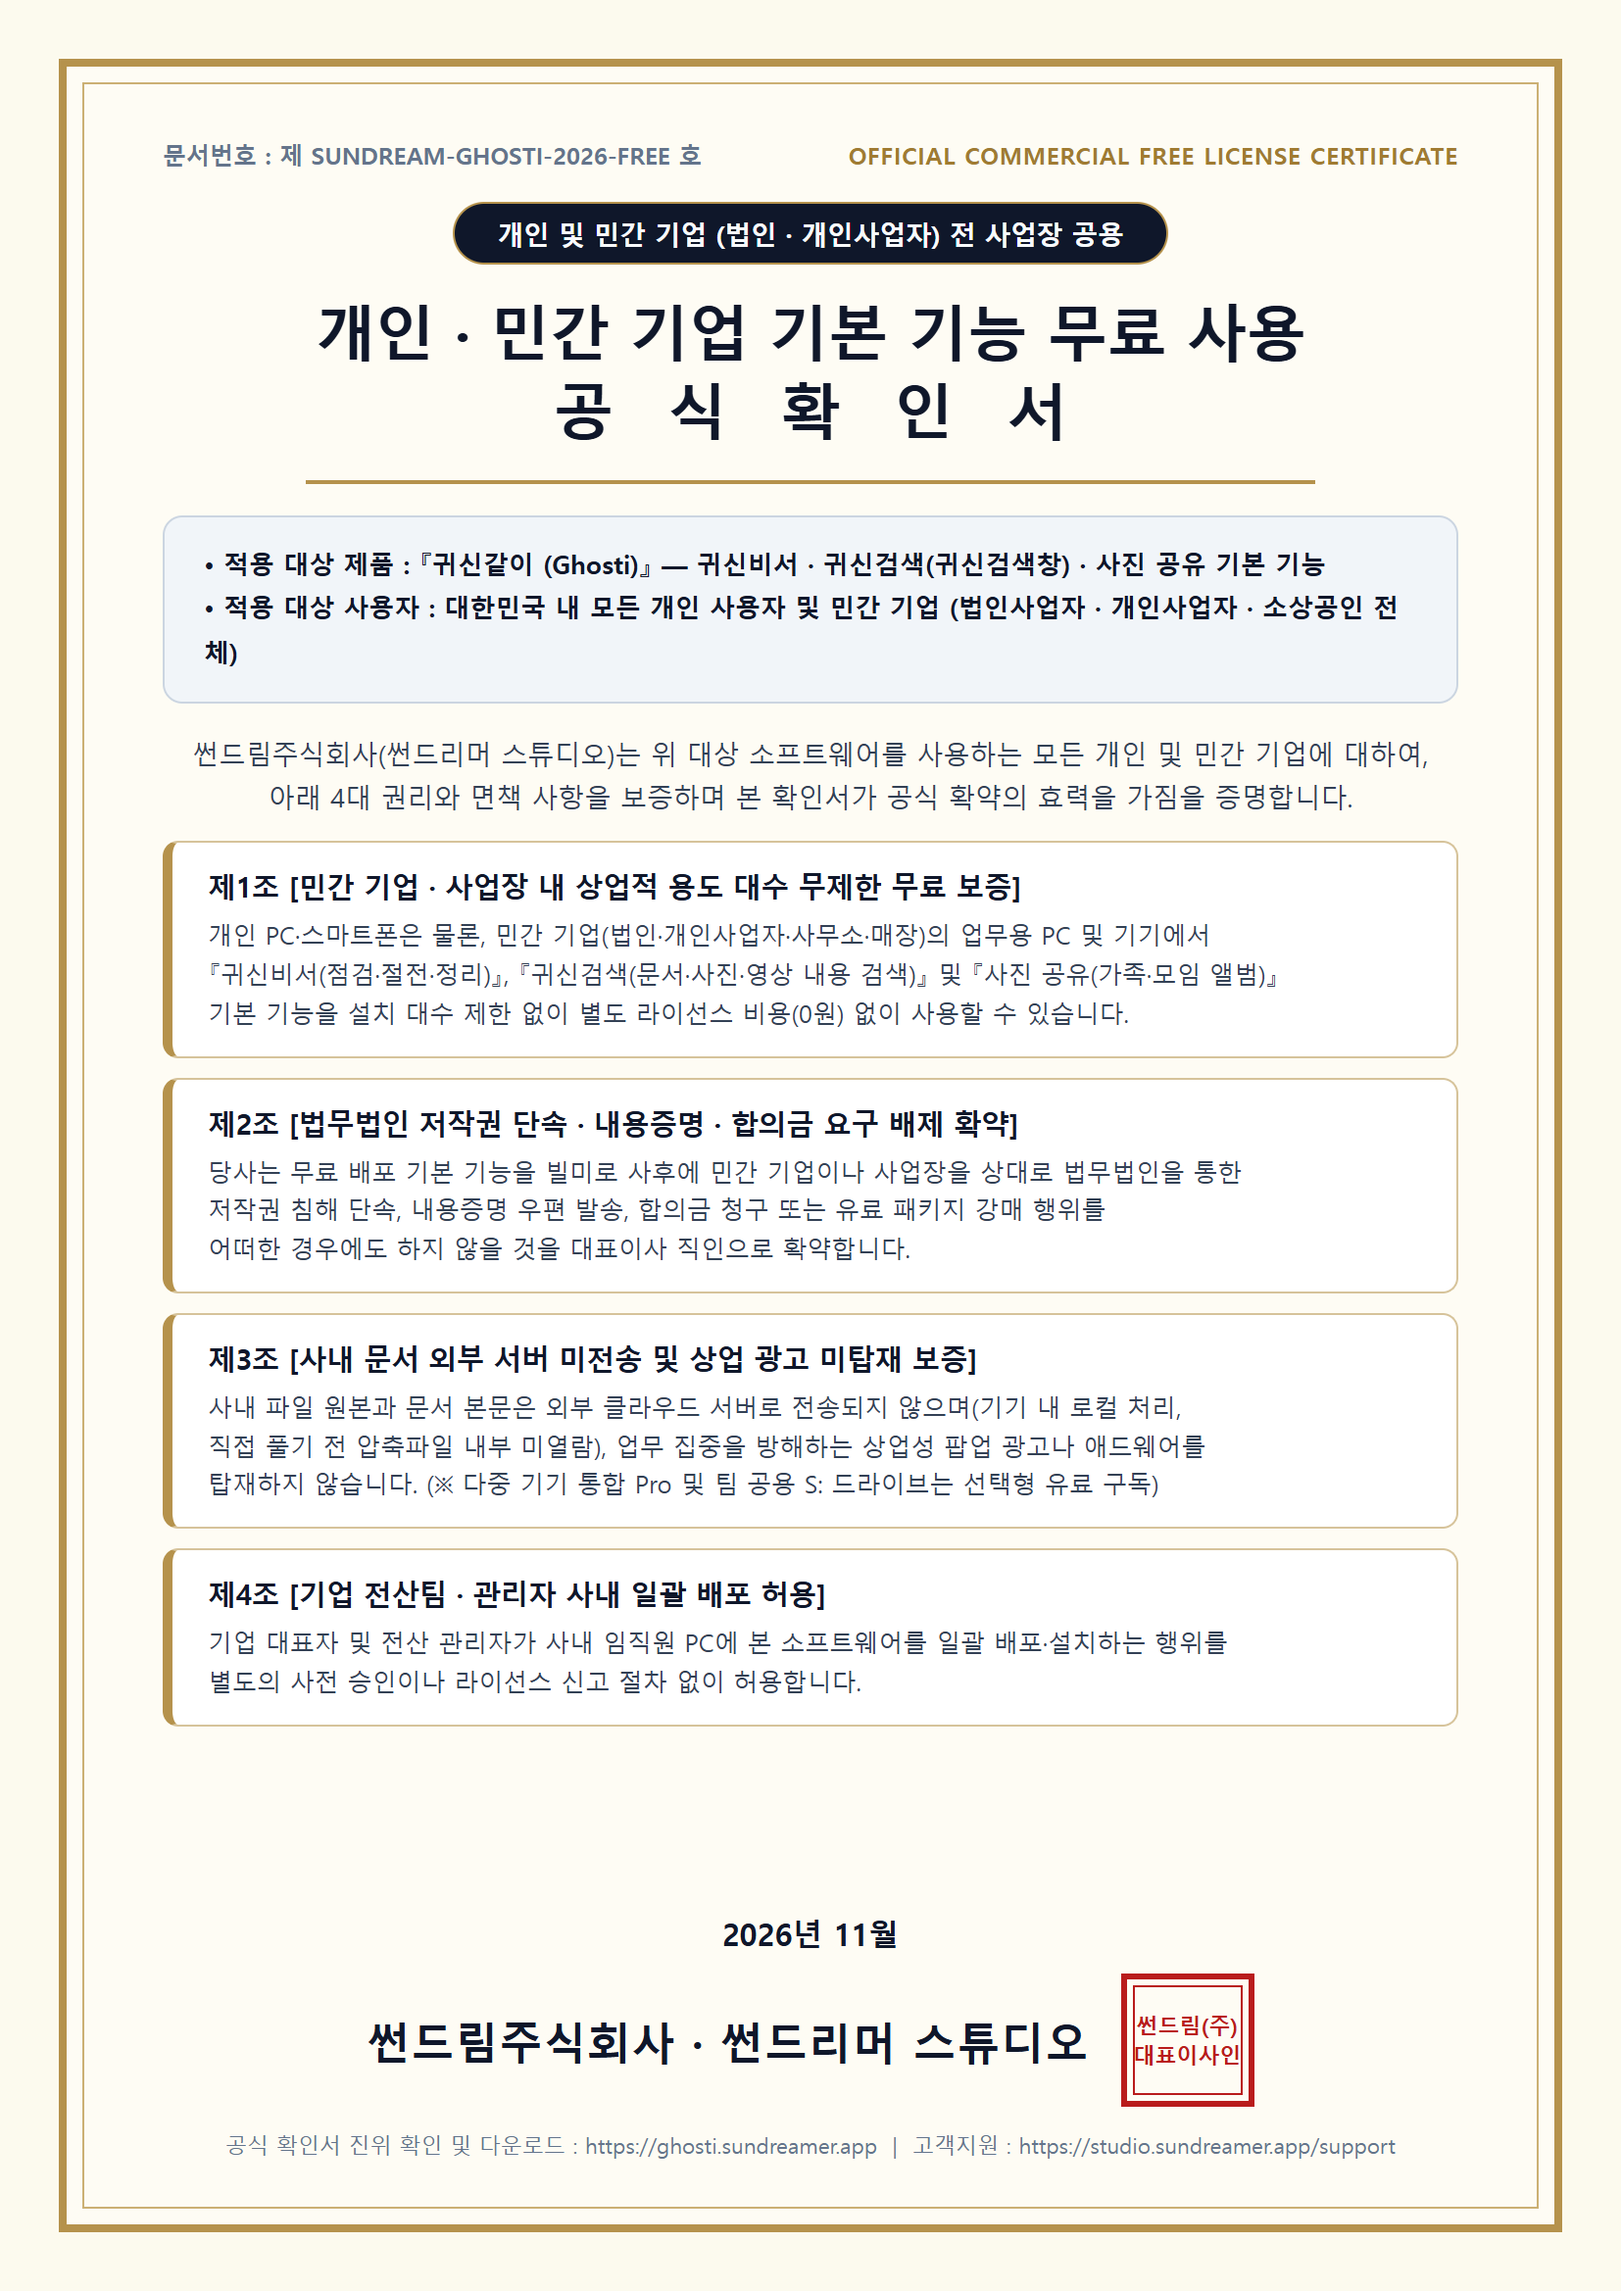
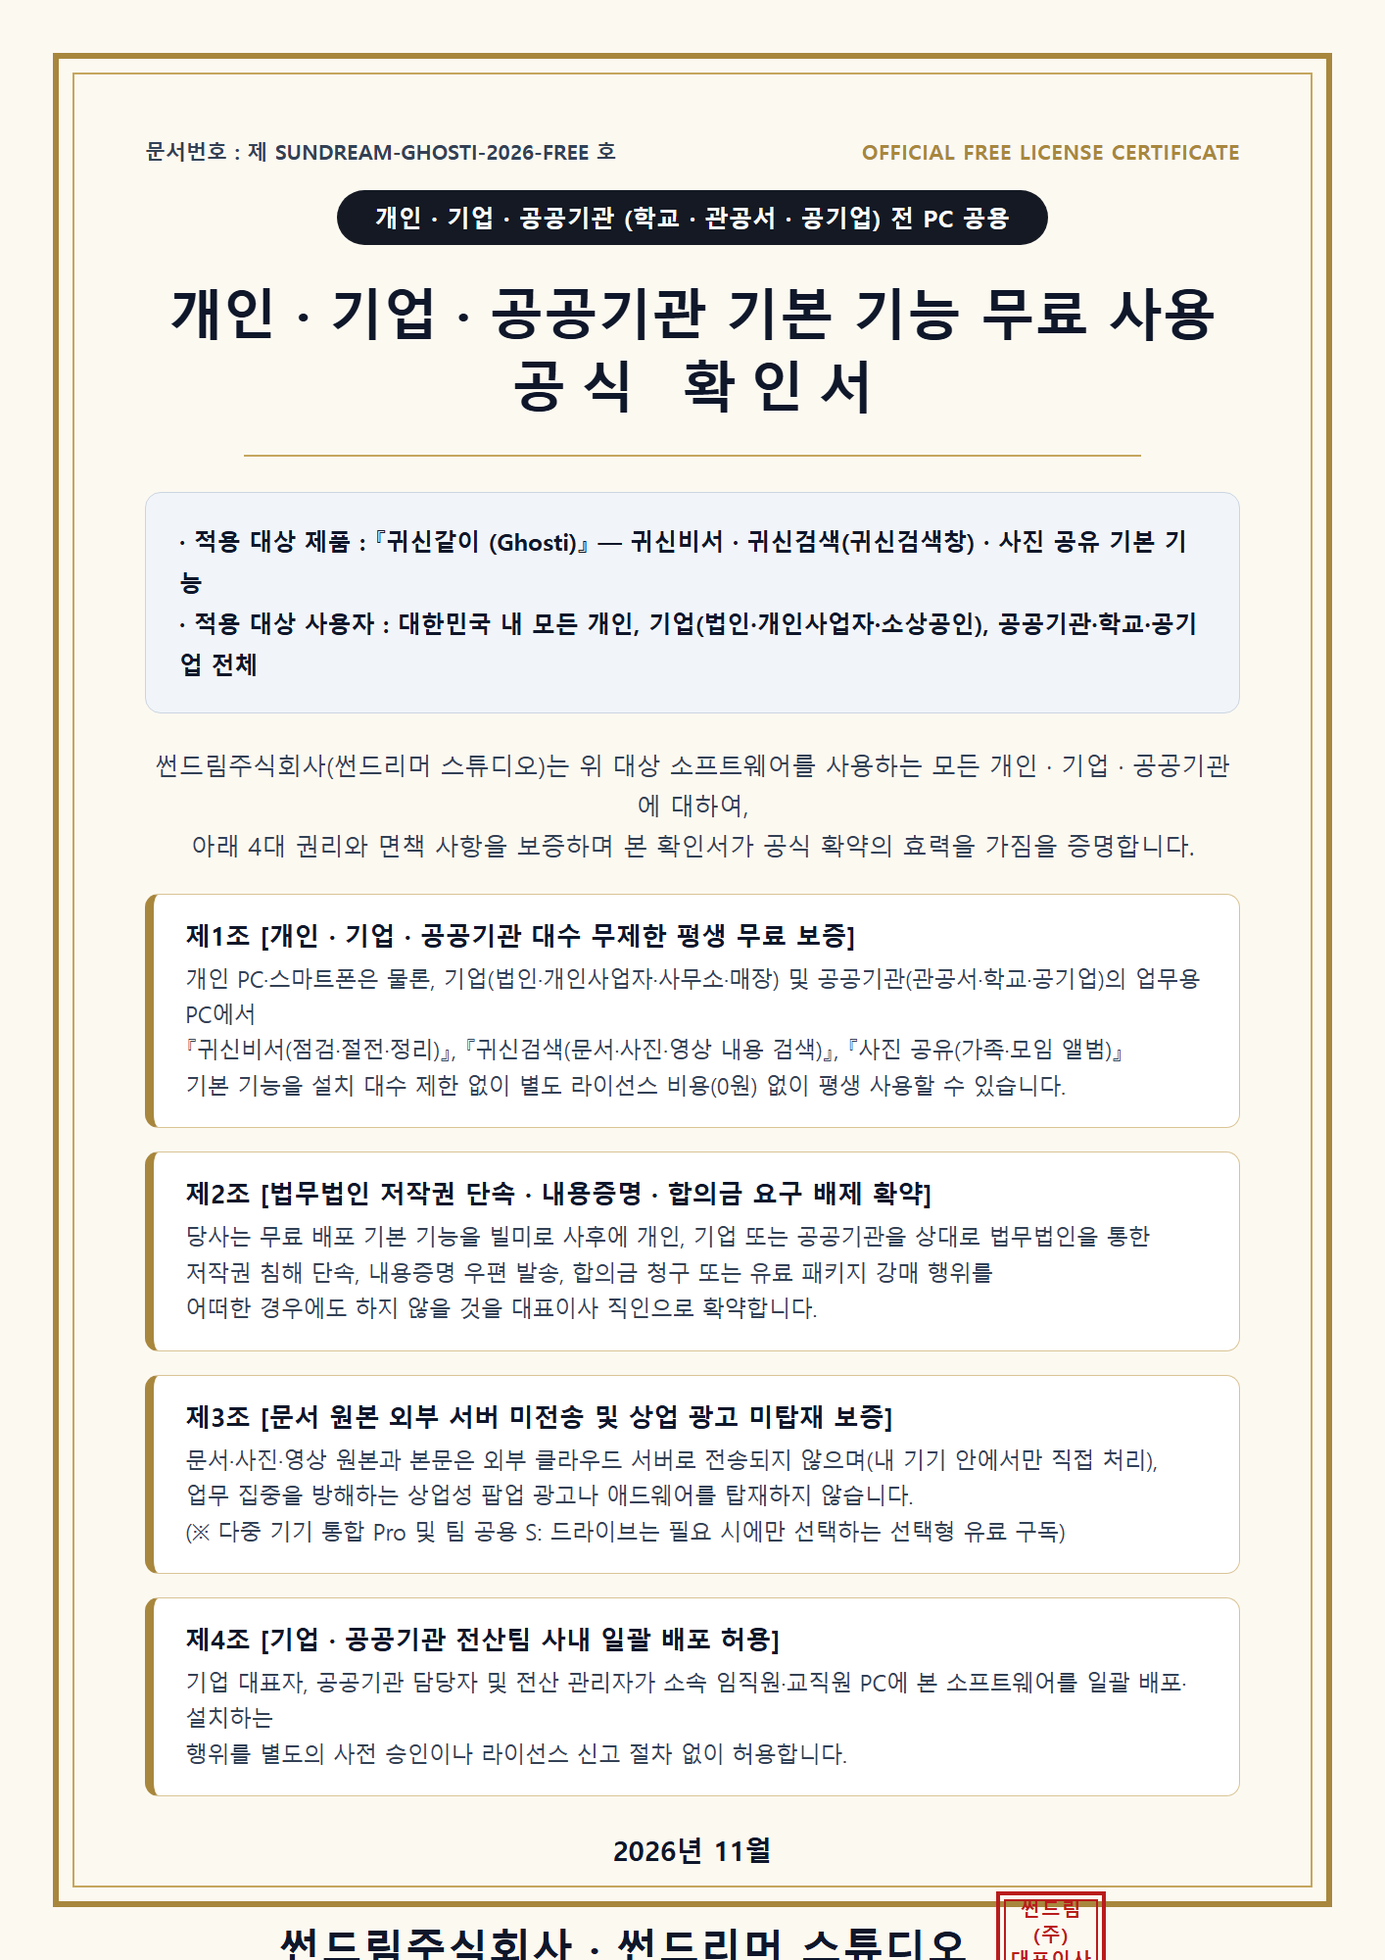
feat(showroom): expand free usage certificate to personal, business, and public institutions with honest local-processing copy

diff --git a/src/components/showroom/ShowroomLowerSections.tsx b/src/components/showroom/ShowroomLowerSections.tsx
@@ -362,7 +362,7 @@ export const ShowroomLowerSections: React.FC<ShowroomLowerSectionsProps> = ({
         </section>
       )}
 
-      {/* 3) 공통 하단 좌·우 2분할 대형 배너: [좌측: 출시 알림 신청 / 시작하기] | [우측: 개인 · 민간 기업 무료 사용 확인서] */}
+      {/* 3) 공통 하단 좌·우 2분할 대형 배너: [좌측: 출시 알림 신청 / 시작하기] | [우측: 개인 · 기업 · 공공기관 무료 사용 확인서] */}
       <section id="security" className="pb-10 px-4 sm:px-6 max-w-6xl mx-auto">
         <div className="grid grid-cols-1 lg:grid-cols-12 gap-5 items-stretch">
           {/* 좌측: 출시 알림 신청 (또는 출시 후 시작하기) */}
@@ -370,18 +370,18 @@ export const ShowroomLowerSections: React.FC<ShowroomLowerSectionsProps> = ({
             {launchAlertSlot}
           </div>
 
-          {/* 우측: 개인 · 민간 기업 기본 기능 무료 사용 확인서 */}
+          {/* 우측: 개인 · 기업 · 공공기관 기본 기능 무료 사용 확인서 */}
           <div className="lg:col-span-6 rounded-2xl bg-white border-2 border-[#F3D7A5] shadow-md p-6 sm:p-7 flex flex-col justify-between gap-4">
             <div className="flex items-start justify-between gap-4">
               <div className="space-y-2 min-w-0 flex-1">
                 <span className="inline-flex items-center px-3 py-1 rounded-full bg-[#FFFBEB] border border-[#F5D08A] text-[#92400E] text-[12px] font-bold">
-                  개인 · 민간 기업 무료 사용 확인서
+                  개인 · 기업 · 공공기관 무료 사용 확인서
                 </span>
                 <h3 className="font-display text-lg sm:text-xl font-bold text-slate-900 leading-snug break-keep">
-                  집 PC는 물론 회사 PC에서도 기본 3대 기능 평생 무료
+                  개인 · 기업 · 공공기관 PC 모두 기본 3대 기능 평생 무료
                 </h3>
                 <p className="text-[12.5px] text-slate-600 break-keep leading-relaxed">
-                  외부 클라우드 서버 없이 내 기기 안에서만 작동해 서버 유지비가 0원이므로, 개인과 민간 기업 모두에게 평생 무료로 제공합니다. (공공기관 별도 문의)
+                  기본 3대 기능은 내 기기 안에서만 직접 처리되어 일부 AI 처리 외 별도 서버 유지비가 거의 들지 않으므로, 개인·기업·공공기관 모두에게 평생 무료로 제공합니다.
                 </p>
               </div>
               <div
@@ -389,8 +389,8 @@ export const ShowroomLowerSections: React.FC<ShowroomLowerSectionsProps> = ({
                 className="hidden sm:block w-24 md:w-28 rounded-xl overflow-hidden border-2 border-slate-300 shadow-xs cursor-pointer hover:border-[#EAB866] transition-all bg-white shrink-0"
               >
                 <img
-                  src="/showroom/certificates/ghosti_b2b_free_certificate.png?v=20261123"
-                  alt="귀신같이 무료 사용 확인서"
+                  src="/showroom/certificates/ghosti_b2b_free_certificate.png?v=20261128"
+                  alt="귀신같이 개인·기업·공공기관 무료 사용 확인서"
                   className="w-full h-auto object-contain"
                 />
               </div>
@@ -508,7 +508,7 @@ export const ShowroomLowerSections: React.FC<ShowroomLowerSectionsProps> = ({
           >
             <div className="flex items-center justify-between gap-2">
               <span className="text-slate-900 font-semibold text-sm sm:text-base min-w-0 break-keep">
-                개인 및 민간 기업 PC 기본 기능 무료 사용 확인서
+                개인 · 기업 · 공공기관 PC 기본 기능 무료 사용 확인서
               </span>
               <button
                 type="button"
@@ -520,8 +520,8 @@ export const ShowroomLowerSections: React.FC<ShowroomLowerSectionsProps> = ({
             </div>
             <div className="rounded-xl overflow-hidden border border-slate-200 bg-white">
               <img
-                src="/showroom/certificates/ghosti_b2b_free_certificate.png?v=20261123"
-                alt="귀신같이 무료 사용 확인서"
+                src="/showroom/certificates/ghosti_b2b_free_certificate.png?v=20261128"
+                alt="귀신같이 개인·기업·공공기관 무료 사용 확인서"
                 className="w-full h-auto object-contain"
               />
             </div>

diff --git a/public/showroom/certificates/ghosti_b2b_free_certificate.html b/public/showroom/certificates/ghosti_b2b_free_certificate.html
@@ -3,7 +3,7 @@
 <head>
   <meta charset="UTF-8" />
   <meta name="viewport" content="width=device-width, initial-scale=1.0" />
-  <title>귀신같이(Ghosti) 개인·민간기업 기본 기능 무료 사용 확인서 | (주)썬드림</title>
+  <title>귀신같이(Ghosti) 개인·기업·공공기관 기본 기능 무료 사용 확인서 | (주)썬드림</title>
   <style>
     @page { size: A4 portrait; margin: 12mm; }
     body {
@@ -62,15 +62,15 @@
 <body>
   <div class="toolbar">
     <div>
-      <strong>귀신같이(Ghosti) 개인 · 민간 기업 기본 기능 무료 사용 확인서</strong>
+      <strong>귀신같이(Ghosti) 개인 · 기업 · 공공기관 기본 기능 무료 사용 확인서</strong>
     </div>
     <div class="btn-group">
-      <a class="btn btn-primary" href="/showroom/certificates/ghosti_b2b_free_certificate.png?v=20261123" download="귀신같이_기업무료사용_확인서.png">이미지 다운로드 (PNG)</a>
+      <a class="btn btn-primary" href="/showroom/certificates/ghosti_b2b_free_certificate.png?v=20261128" download="귀신같이_개인기업공공기관_무료사용_확인서.png">이미지 다운로드 (PNG)</a>
       <button class="btn btn-outline" onclick="window.print()">인쇄 · PDF 저장</button>
     </div>
   </div>
   <div class="cert-wrap">
-    <img src="/showroom/certificates/ghosti_b2b_free_certificate.png?v=20261123" alt="귀신같이 개인 및 민간 기업 기본 기능 무료 사용 확인서" />
+    <img src="/showroom/certificates/ghosti_b2b_free_certificate.png?v=20261128" alt="귀신같이 개인·기업·공공기관 기본 기능 무료 사용 확인서" />
   </div>
 </body>
 </html>

diff --git a/src/components/GhostiShowroomLanding.tsx b/src/components/GhostiShowroomLanding.tsx
@@ -405,9 +405,9 @@ export const GhostiShowroomLanding: React.FC<GhostiShowroomLandingProps> = ({
       } else {
         setCleanSubTab('speed');
       }
-    } else if (/무료|가격|유료|보증서|기업|회사|라이선스|결제/.test(q)) {
+    } else if (/무료|가격|유료|보증서|기업|회사|공공|관공서|라이선스|결제/.test(q)) {
       customReply =
-        '개인 PC와 민간 기업 사내 PC 모두 기본 기능(귀신비서 · 귀신검색 · 사진 공유)을 별도 비용 없이 사용하실 수 있어요.\n상단 [무료 사용 확인서] 버튼에서 공식 확인서를 열람하실 수 있습니다.';
+        '개인 PC는 물론 기업과 공공기관 PC에서도 기본 기능(귀신비서 · 귀신검색 · 사진 공유)을 별도 비용 없이 사용하실 수 있어요.\n하단 [무료 사용 확인서] 배너에서 공식 확인서를 열람하실 수 있습니다.';
     }
 
     if (matchedTab) {

diff --git a/docs/기능명세.md b/docs/기능명세.md
@@ -1036,7 +1036,7 @@
    - **온보딩 상단 3대 무료 기능 탭 전환 구조 & 유료 홍보 링크 핀셋 분기 (`GhostiShowroomLanding.tsx`, `ShowroomLowerSections.tsx`, 2026-11-28 멀린님 최종 확정):**
      - **무료 슬로건 상시 고정 & 기본 온보딩 유료 영구 비노출**: 상단 로고(`GhostiBrandLogo` 본진 동일 규격) 옆에 **`가입·카드 등록 없이 · 광고 0% 평생 무료`** 슬로건을 상시 고정하고, 일반 접속(`https://ghosti.sundreamer.app`) 온보딩에서는 유료 메뉴·가격표를 영구 비노출하여 무료 브랜드 신뢰도를 100% 사수합니다. (`초능력` 표현은 자매 앱 `귀신키(GhostKey)` 전용 모토로 본체 온보딩에서 제외합니다. 모바일 네이티브 앱 `Capacitor`는 `OFFICIAL_LAUNCH_LIVE` 값과 무관하게 스토어 심사 기간 포함 항상 1순위로 본진 워크스페이스가 열립니다.)
      - **본진 1~3번과 100% 일치하는 상단 3대 탭 (`귀신비서` · `귀신검색` · `사진 공유`) — 1탭 원스톱 완결**: 기존의 긴 스크롤 및 콘텐츠 형식별 메뉴(`기능 체험/사례/영상/소개`)를 폐기하고, 상단 메뉴를 본진 무료 3대 기능인 **`귀신비서` · `귀신검색` · `사진 공유`**로 고정(이모지 0개)합니다. 각 탭 클릭 시 동일 시작점(`#main-feature-stage`, `scroll-mt-20`)에서 해당 기능의 **[① 1줄 직관 풀이 헤더 + ② 직접 체험(리얼 샘플) + ③ 해당 기능 전용 Before vs After 사례 + ④ 15초 짧은 영상]**을 한 화면 흐름 안에 원스톱으로 제공합니다.
-     - **각 기능 탭 하단 공통 무료 사용 확인서 대형 배너**: 3대 무료 기능 탭 하단에는 **`개인 · 민간 기업 기본 기능 평생 무료 사용 확인서`** 큼직한 신뢰 배너를 고정 배치하여 회사 PC 사용자와 일반 유저의 의심을 즉시 해소합니다.
+     - **각 기능 탭 하단 공통 무료 사용 확인서 대형 배너**: 3대 무료 기능 탭 및 첫 대문 하단에는 좌·우 2분할 대형 배너(**좌측: `출시 알림 신청` / 우측: `개인 · 기업 · 공공기관 무료 사용 확인서`**)를 고정 배치하여 개인·기업·공공기관(공무원·학교·공기업) PC 사용자 모두의 의심을 즉시 해소합니다. (모달은 마우스 뒤로가기·브라우저 뒤로가기·ESC 닫기 지원)
      - **유료 홍보 링크 핀셋 분기 (`?from=pro` · `?from=b2b` / `#work-share`)**: 유료 기능 홍보 링크로 유입된 경우에만 상단에 **`확장 플랜`** 탭을 자동 추가하고 해당 유료 화면(`4. 내 기기 통합 Pro` / `5. 업무 공유 S:`)을 첫 화면으로 즉시 노출합니다(모바일 스토어 심사 모드 `isStoreAppMode === true`에서는 유료 탭 비노출 가드레일 100% 유지).
      - **시각 대비 & 2-톤 컬러 시스템**: 외곽 바탕색을 짙은 쿨 슬레이트 그레이(`#D8E1EC`)로 다운시켜 내부 순백(`#FFFFFF`, `border-slate-300`, `shadow-md`) 라운드 박스로 시선을 집중시키고, 민트 원톤 도배를 탈피해 **딥 네이비/블루(`#0F172A` / `#2563EB`) 주력 + 브랜드 민트(`#0D9488`) 메인 CTA 포인트** 2-톤 체계로 통일합니다.
 2. **정식 출시 후 영구 온보딩 & 세션 감지형 자동 패스스루 (`OFFICIAL_LAUNCH_LIVE = true`):**
